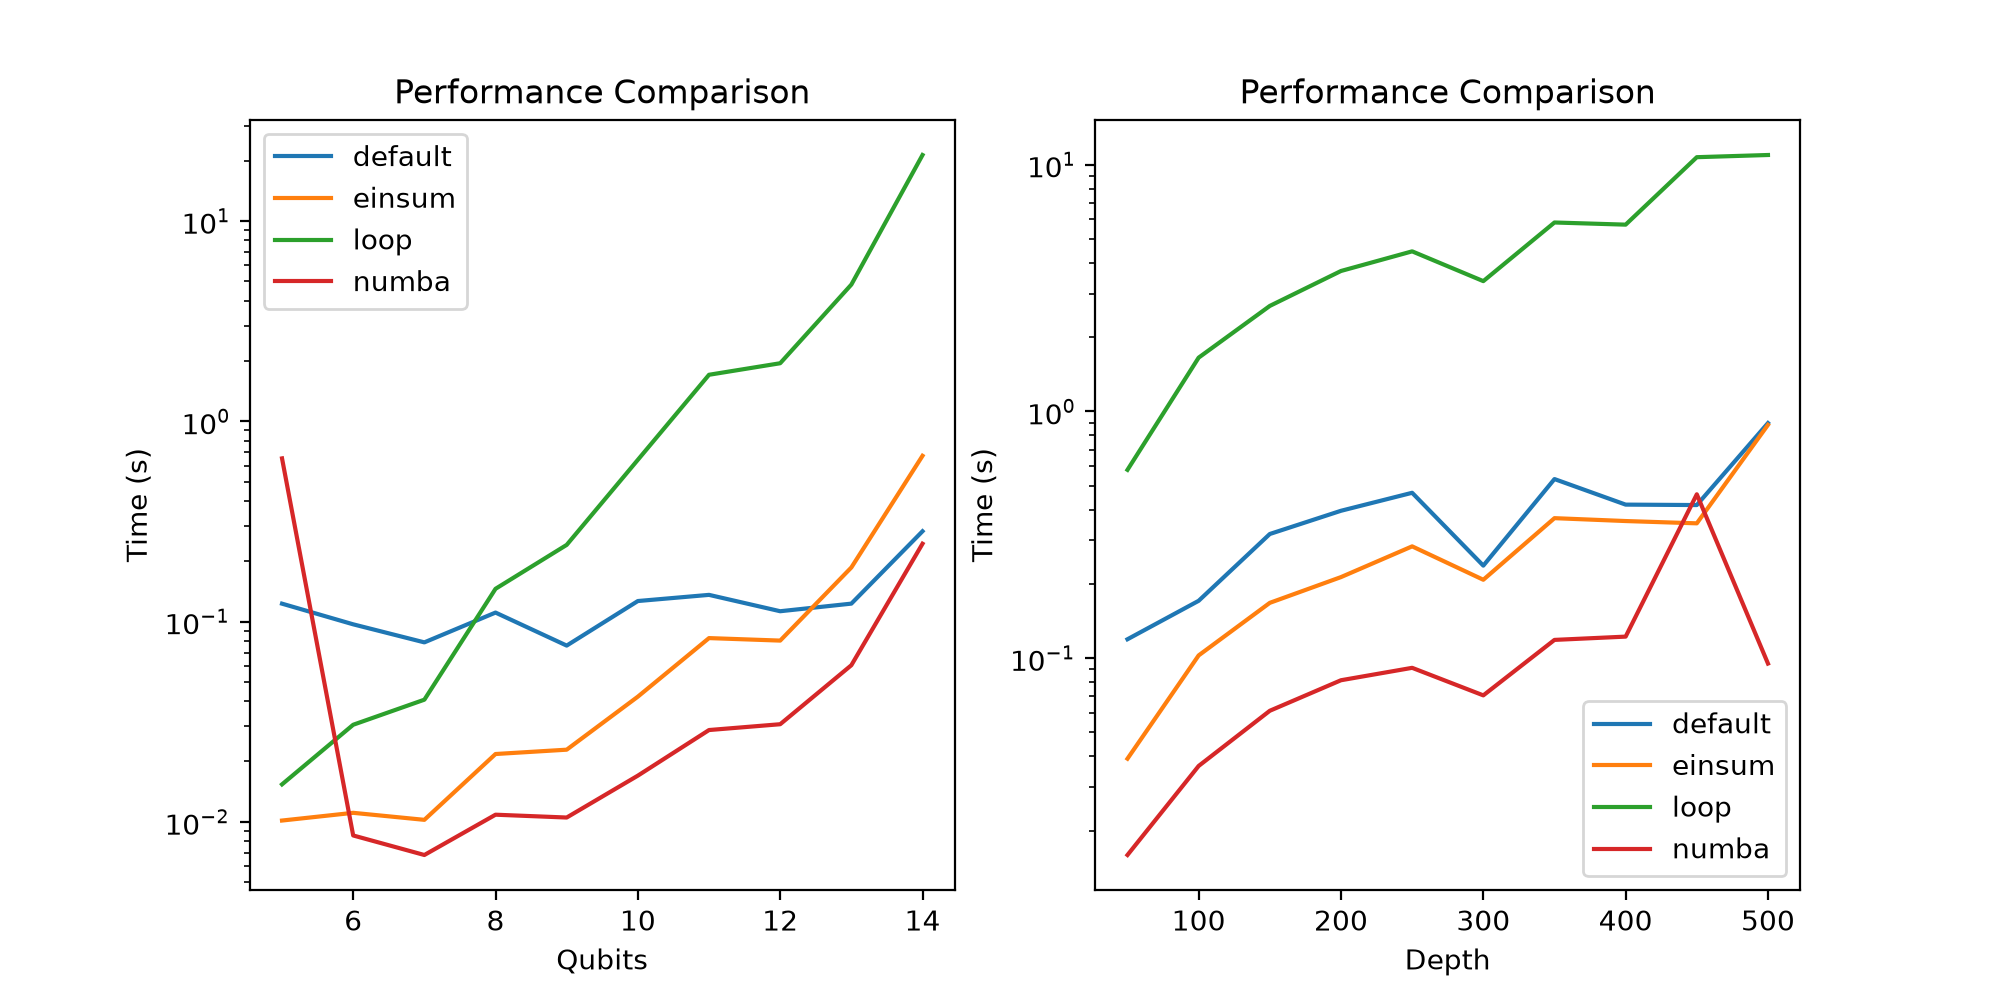
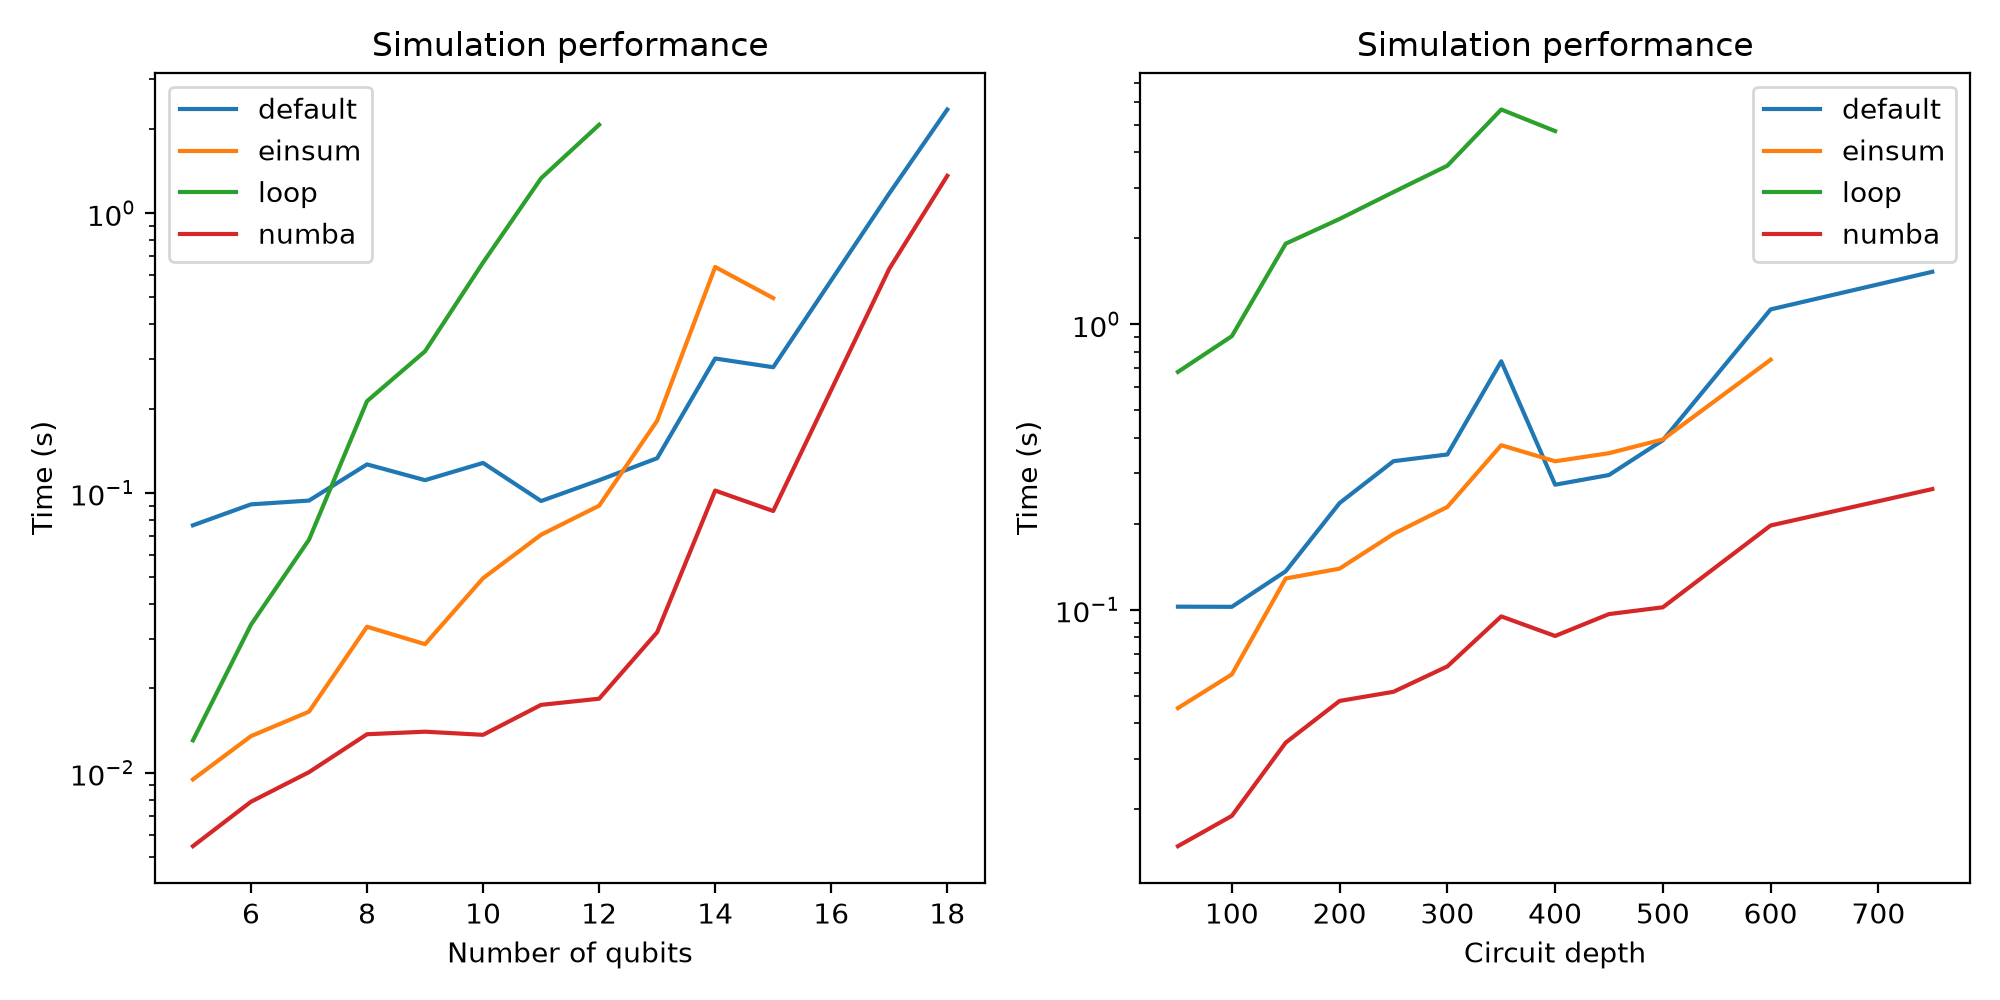
better plot dor doku

diff --git a/README.md b/README.md
@@ -5,6 +5,9 @@ University of Stuttgart practical course *Simulation von Quantenschaltungen*.
 It accepts Qiskit `QuantumCircuit` objects and returns the resulting
 statevector together with measurement probabilities or counts.
 
+## Dokumentation
+[Dokumentation](https://jona-sh.github.io/V93_BP_Simulation_von_Quantenschaltungen/index.html)
+
 ## Features
 
 - Simulation through the Qiskit Aer backend.
